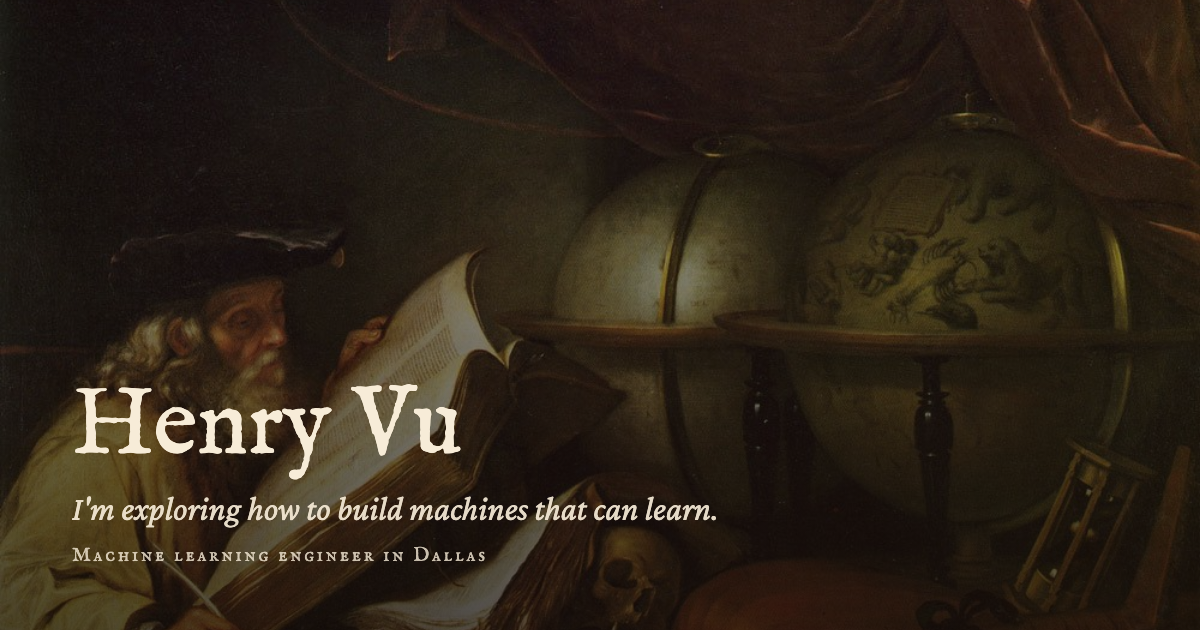
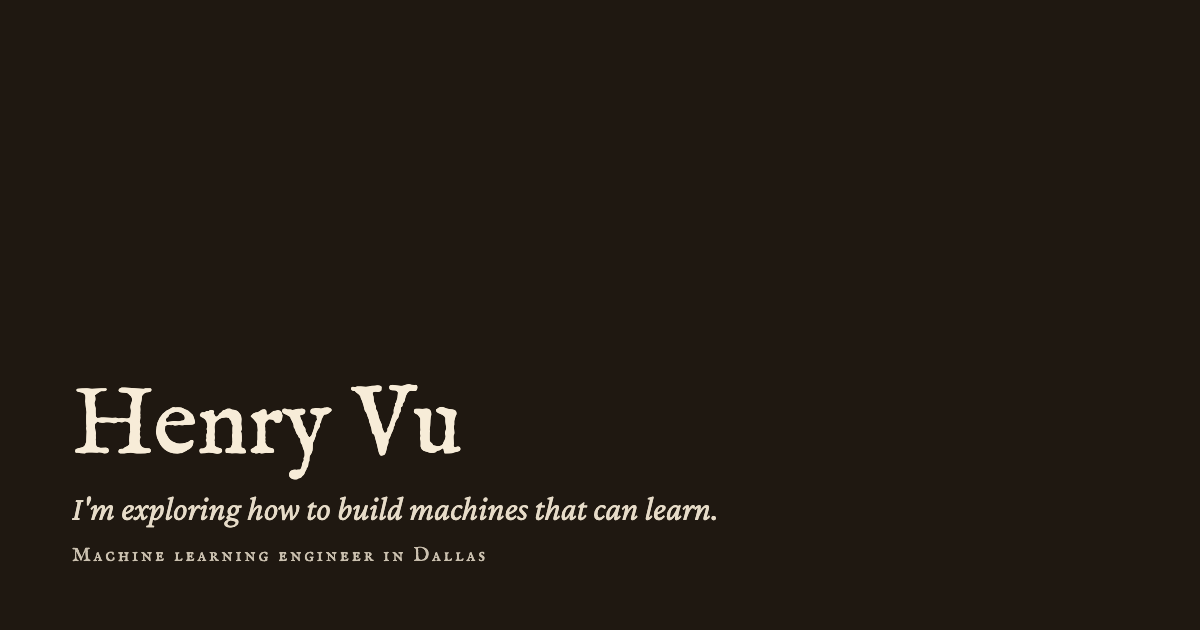
Remove the painting; typographic title page; hairline Send button; fixed message field
Claude-Session: https://claude.ai/code/session_01NFffw4nUcGiLCbetL6fmCd

diff --git a/styles.css b/styles.css
@@ -9,7 +9,6 @@
   --selection: #4b3719;
   --edge: #17120d;
   --grain-opacity: .09; --grain-blend: soft-light;
-  --hero-fade: var(--bg);
   color-scheme: dark;
 }
 :root[data-theme="day"] {
@@ -77,44 +76,31 @@ body::after {
 
 /* ---------- Running head ---------- */
 .rh {
-  position: absolute; top: 0; left: 0; right: 0; z-index: 3;
   display: flex; justify-content: flex-end; align-items: baseline; gap: 24px;
   max-width: var(--col); margin: 0 auto; padding: 22px var(--pad) 14px;
-  color: rgba(241,228,205,.82);
+  color: var(--text-2);
 }
 .rh a, .rh button { color: inherit; text-decoration: none; }
-.rh a:hover, .rh button:hover, .rh .rh-name { color: #f1e4cd; }
+.rh a:hover, .rh button:hover { color: var(--ink); }
 .rh-nav { display: flex; gap: 26px; flex-wrap: wrap; align-items: baseline; }
 .theme-toggle { padding: 0; border-bottom: 1px solid transparent; }
 .theme-toggle:hover { border-bottom-color: currentColor; }
 
-/* ---------- Hero ---------- */
-.hero {
-  position: relative; min-height: 78vh; min-height: 78svh;
-  display: flex; align-items: flex-end;
-  background: #17120d url("assets/scholar.jpg") center 28% / cover no-repeat;
-}
-.hero::after {
-  content: ""; position: absolute; inset: 0; z-index: 1; pointer-events: none;
-  background: linear-gradient(to bottom, rgba(18,12,7,.30) 0%, rgba(18,12,7,.48) 50%, rgba(18,12,7,.62) 86%, var(--hero-fade) 100%);
-}
-:root[data-theme="day"] .hero::after {
-  background: linear-gradient(to bottom, rgba(18,12,7,.25) 0%, rgba(18,12,7,.52) 55%, rgba(18,12,7,.66) 100%);
-  border-bottom: 1px solid var(--rule);
-}
-.hero-inner { position: relative; z-index: 2; width: 100%; max-width: var(--col); margin: 0 auto; padding: 140px var(--pad) 52px; }
-.hero-title { font-family: var(--fd); font-weight: 400; font-size: clamp(56px, 7.5vw, 96px); line-height: 1; color: #f7ecd8; text-shadow: 0 1px 2px rgba(0,0,0,.35); }
-.hero-sub { font-style: italic; font-size: clamp(22px, 2vw, 30px); color: rgba(247,236,216,.92); margin: 16px 0 12px; text-shadow: 0 1px 2px rgba(0,0,0,.35); }
-.hero-where { color: rgba(241,228,205,.78); letter-spacing: .12em; font-size: 16px; }
+/* ---------- Title page ---------- */
+.hero { position: relative; }
+.hero-inner { max-width: var(--col); margin: 0 auto; padding: 104px var(--pad) 8px; }
+.hero-title { font-family: var(--fd); font-weight: 400; font-size: clamp(56px, 7.5vw, 96px); line-height: 1; color: var(--ink); }
+.hero-sub { font-style: italic; font-size: clamp(22px, 2vw, 30px); color: var(--text-2); margin: 16px 0 12px; }
+.hero-where { color: var(--muted); letter-spacing: .12em; font-size: 16px; }
 .hero-links { margin-top: 24px; display: flex; gap: 28px; letter-spacing: .12em; font-size: 17px; }
-.hero-links a { color: #e6c98a; text-decoration: none; }
+.hero-links a { color: var(--link); text-decoration: none; }
 .hero-links a:hover { text-decoration: underline; }
 .hand { font-family: var(--forn); letter-spacing: 0; margin-right: .3em; }
 
 /* ---------- Page and sections ---------- */
 .page { max-width: var(--col); margin: 0 auto; padding: 0 var(--pad); animation: rise .45s cubic-bezier(.23,1,.32,1) both; }
 @keyframes rise { from { opacity: 0; transform: translateY(6px); } }
-.sec { padding-top: 36px; scroll-margin-top: 24px; }
+.sec { padding-top: 40px; scroll-margin-top: 24px; }
 .sec h2 { font-family: var(--fd); font-weight: 400; font-size: 36px; line-height: 1.1; margin-bottom: 16px; }
 .prose { max-width: 62ch; }
 .prose p + p { margin-top: .9em; }
@@ -156,17 +142,18 @@ body::after {
 .field label { font-family: var(--fsc); letter-spacing: .1em; font-size: 14px; color: var(--muted); }
 .field input, .field textarea {
   width: 100%; background: transparent; color: var(--text); border: 0; border-bottom: 1px solid var(--border);
-  border-radius: 0; padding: 6px 0; font: inherit; line-height: 1.4; resize: vertical;
+  border-radius: 0; padding: 6px 0; font: inherit; line-height: 1.4; resize: none;
 }
+.field textarea { height: 9.5em; }
 .field input:focus, .field textarea:focus { outline: none; border-bottom-color: var(--gold); }
 .error-message { min-height: 1.2em; font-size: .85em; color: var(--accent); }
 .botcheck { display: none; }
 .send {
   align-self: flex-start; font-family: var(--fsc); letter-spacing: .12em; font-size: 16px;
-  color: var(--bg); background: var(--gold); padding: 10px 26px; border-radius: 2px;
-  transition: box-shadow .2s ease, transform .2s ease;
+  color: var(--ink); background: transparent; border: 1px solid var(--border); padding: 9px 26px;
+  transition: border-color .15s ease, color .15s ease;
 }
-.send:hover { box-shadow: 0 1px 2px rgba(0,0,0,.25), 0 6px 18px rgba(0,0,0,.25); transform: translateY(-1px); }
+.send:hover { border-color: var(--ink); }
 .send:disabled { opacity: .7; cursor: default; }
 #form-status { margin-top: 18px; color: var(--gold); font-style: italic; }
 #form-status.error { color: var(--accent); }
@@ -195,14 +182,11 @@ body::after {
 .life-entry-rating { display: inline-block; color: var(--gold); margin-top: .5rem; }
 .video-container { position: relative; padding-bottom: 56.25%; height: 0; overflow: hidden; }
 .video-container iframe { position: absolute; inset: 0; width: 100%; height: 100%; border: 0; }
-.life-page .rh { position: static; color: var(--text-2); border-bottom: 1px solid var(--rule); }
-.life-page .rh .rh-name, .life-page .rh a:hover, .life-page .rh button:hover { color: var(--ink); }
 
 /* ---------- Responsive ---------- */
 @media (max-width: 760px) {
   body { font-size: 18px; }
-  .hero { min-height: 70vh; min-height: 70svh; }
-  .hero-inner { padding-top: 140px; }
+  .hero-inner { padding-top: 64px; }
   .rh { flex-direction: column; align-items: flex-start; gap: 10px; }
   .rh-nav { gap: 18px; }
   .work > li { grid-template-columns: 1fr; gap: 4px; }
@@ -212,7 +196,7 @@ body::after {
   .toc .year { margin-left: auto; }
   .life-entry, .life-entry:nth-child(even) { flex-direction: column; gap: 16px; }
 }
-@media (max-width: 480px) { .hero { min-height: 520px; } .sec h2 { font-size: 32px; } }
+@media (max-width: 480px) { .sec h2 { font-size: 32px; } }
 
 /* ---------- Motion preferences and view transitions ---------- */
 @media (prefers-reduced-motion: no-preference) {
@@ -225,5 +209,4 @@ body::after {
 @media (prefers-reduced-motion: reduce) {
   .page { animation: none; }
   html { scroll-behavior: auto; }
-  .send:hover { transform: none; }
 }

diff --git a/index.html b/index.html
@@ -42,7 +42,7 @@
     <link rel="preconnect" href="https://fonts.gstatic.com" crossorigin>
     <link href="https://fonts.googleapis.com/css2?family=IM+Fell+English:ital@0;1&family=IM+Fell+English+SC&family=Crimson+Pro:ital,wght@0,400;0,500;0,600;1,400&display=swap" rel="stylesheet">
     <link href="https://fonts.googleapis.com/css2?family=EB+Garamond&text=%E2%9D%A6%E2%9D%A7%E2%98%99%E2%98%9E&display=swap" rel="stylesheet">
-    <link rel="stylesheet" href="styles.css?v=7">
+    <link rel="stylesheet" href="styles.css?v=8">
     <script async src="https://www.googletagmanager.com/gtag/js?id=G-PJESH4V1MQ"></script>
     <script>
         window.dataLayer = window.dataLayer || [];
@@ -296,6 +296,7 @@
     </header>
 
     <main class="page">
+        <div class="dinkus" role="separator" aria-hidden="true">&#x2767;</div>
         <section class="sec" id="about" aria-labelledby="about-h">
             <h2 id="about-h">About</h2>
             <div class="prose">
@@ -443,7 +444,7 @@
                 </div>
                 <div class="field">
                     <label for="message">Message</label>
-                    <textarea id="message" name="message" rows="6" required></textarea>
+                    <textarea id="message" name="message" rows="7" required></textarea>
                     <div class="error-message" aria-live="polite"></div>
                 </div>
                 <input type="checkbox" name="botcheck" class="botcheck" tabindex="-1" aria-hidden="true">

diff --git a/tools/render-og.html b/tools/render-og.html
@@ -2,8 +2,8 @@
 <link rel="stylesheet" href="https://fonts.googleapis.com/css2?family=IM+Fell+English&family=IM+Fell+English+SC&family=Crimson+Pro:ital@1&display=swap">
 <style>
   body{margin:0;background:#1f1811}
-  .og{position:relative;width:1200px;height:630px;overflow:hidden;background:#17120d url(../assets/scholar.jpg) center 30%/cover no-repeat}
-  .og::after{content:"";position:absolute;inset:0;background:linear-gradient(to bottom,rgba(18,12,7,.25),rgba(18,12,7,.7))}
+  .og{position:relative;width:1200px;height:630px;overflow:hidden;background:#1f1811}
+  
   .t{position:absolute;left:72px;bottom:64px;z-index:1;color:#f7ecd8}
   .t h1{margin:0;font:400 96px/1 "IM Fell English",serif}
   .t p{margin:14px 0 0;font:italic 34px/1.2 "Crimson Pro",serif;opacity:.92}

diff --git a/life/food.html b/life/food.html
@@ -11,7 +11,7 @@
     <link rel="preconnect" href="https://fonts.gstatic.com" crossorigin>
     <link href="https://fonts.googleapis.com/css2?family=IM+Fell+English:ital@0;1&family=IM+Fell+English+SC&family=Crimson+Pro:ital,wght@0,400;0,500;0,600;1,400&display=swap" rel="stylesheet">
     <link href="https://fonts.googleapis.com/css2?family=EB+Garamond&text=%E2%9D%A6%E2%9D%A7%E2%98%99%E2%98%9E&display=swap" rel="stylesheet">
-    <link rel="stylesheet" href="../styles.css?v=7">
+    <link rel="stylesheet" href="../styles.css?v=8">
 </head>
 <body class="life-page">
     <header class="rh">

diff --git a/life/piano.html b/life/piano.html
@@ -11,7 +11,7 @@
     <link rel="preconnect" href="https://fonts.gstatic.com" crossorigin>
     <link href="https://fonts.googleapis.com/css2?family=IM+Fell+English:ital@0;1&family=IM+Fell+English+SC&family=Crimson+Pro:ital,wght@0,400;0,500;0,600;1,400&display=swap" rel="stylesheet">
     <link href="https://fonts.googleapis.com/css2?family=EB+Garamond&text=%E2%9D%A6%E2%9D%A7%E2%98%99%E2%98%9E&display=swap" rel="stylesheet">
-    <link rel="stylesheet" href="../styles.css?v=7">
+    <link rel="stylesheet" href="../styles.css?v=8">
 </head>
 <body class="life-page">
     <header class="rh">

diff --git a/life/wine.html b/life/wine.html
@@ -11,7 +11,7 @@
     <link rel="preconnect" href="https://fonts.gstatic.com" crossorigin>
     <link href="https://fonts.googleapis.com/css2?family=IM+Fell+English:ital@0;1&family=IM+Fell+English+SC&family=Crimson+Pro:ital,wght@0,400;0,500;0,600;1,400&display=swap" rel="stylesheet">
     <link href="https://fonts.googleapis.com/css2?family=EB+Garamond&text=%E2%9D%A6%E2%9D%A7%E2%98%99%E2%98%9E&display=swap" rel="stylesheet">
-    <link rel="stylesheet" href="../styles.css?v=7">
+    <link rel="stylesheet" href="../styles.css?v=8">
 </head>
 <body class="life-page">
     <header class="rh">

diff --git a/life.html b/life.html
@@ -11,7 +11,7 @@
     <link rel="preconnect" href="https://fonts.gstatic.com" crossorigin>
     <link href="https://fonts.googleapis.com/css2?family=IM+Fell+English:ital@0;1&family=IM+Fell+English+SC&family=Crimson+Pro:ital,wght@0,400;0,500;0,600;1,400&display=swap" rel="stylesheet">
     <link href="https://fonts.googleapis.com/css2?family=EB+Garamond&text=%E2%9D%A6%E2%9D%A7%E2%98%99%E2%98%9E&display=swap" rel="stylesheet">
-    <link rel="stylesheet" href="styles.css?v=7">
+    <link rel="stylesheet" href="styles.css?v=8">
 </head>
 <body class="life-page">
     <header class="rh">
